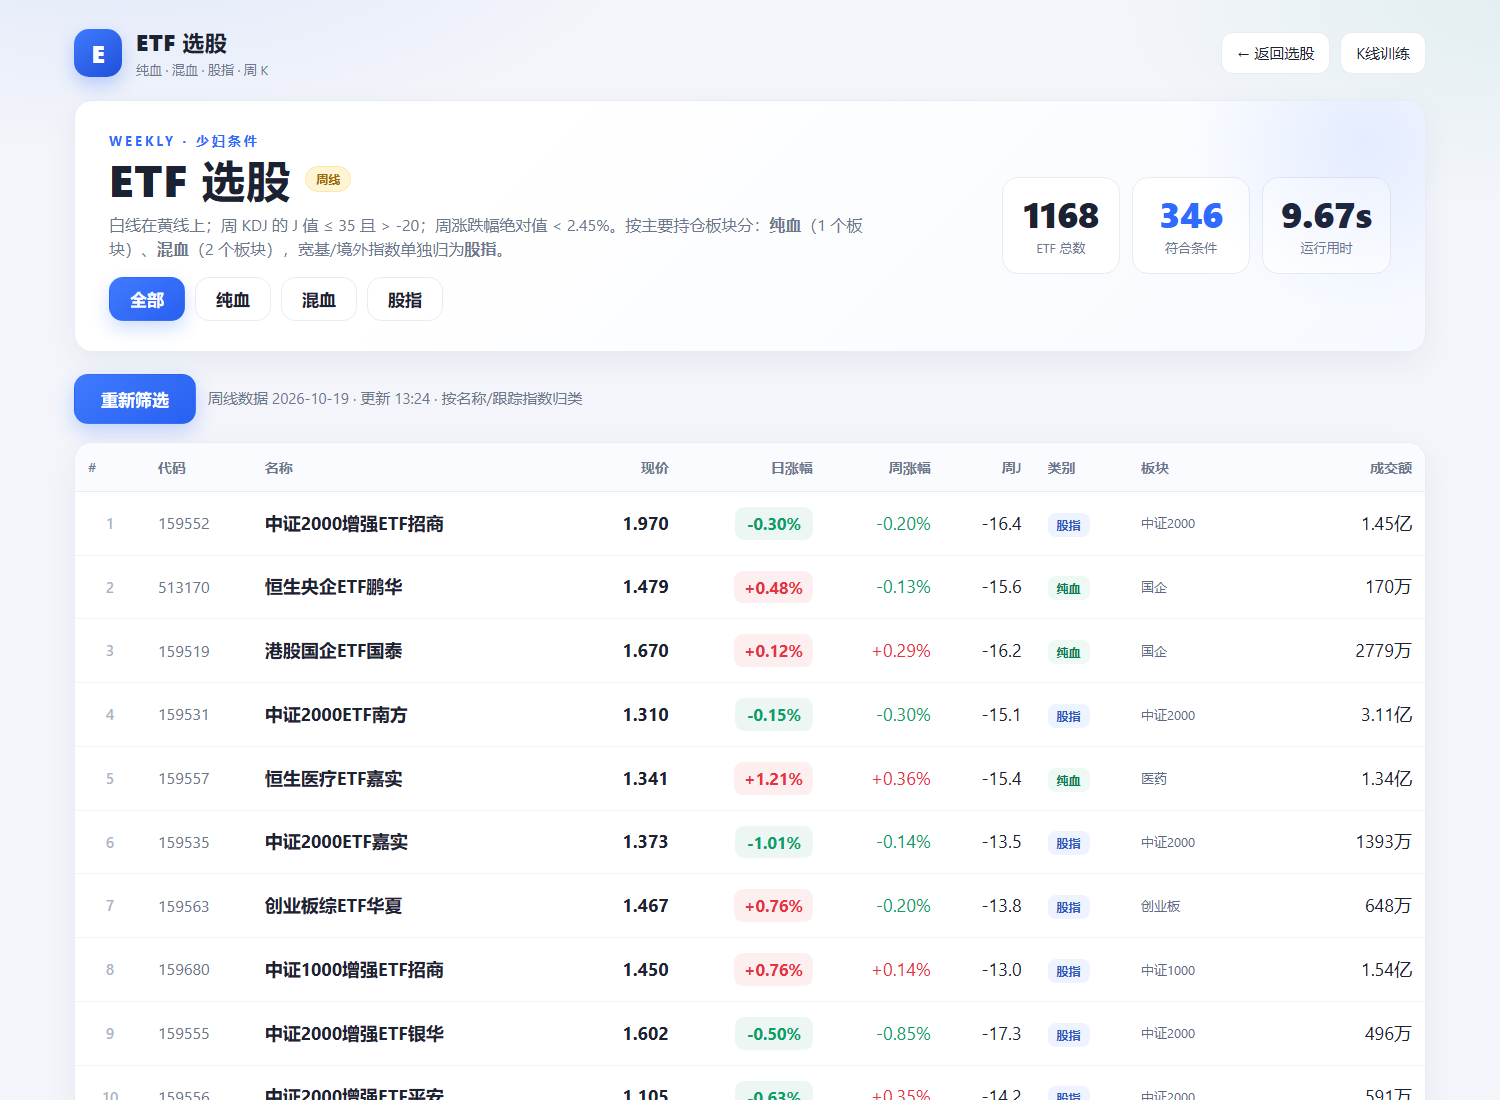
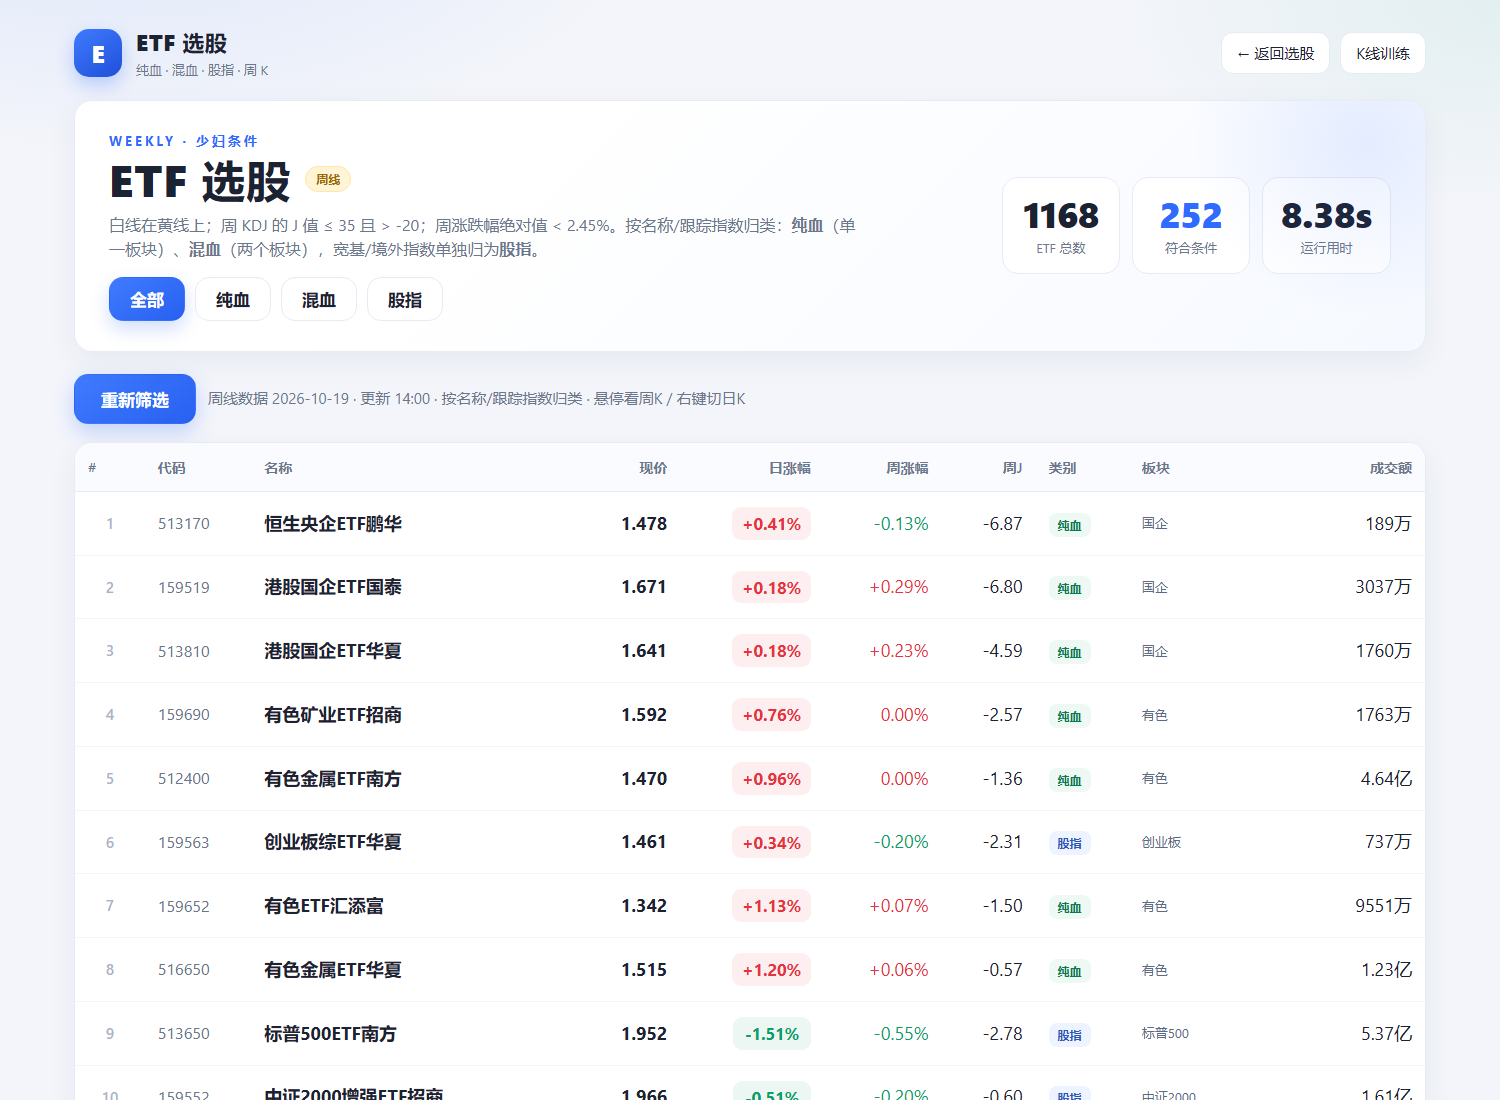
style: 指标数值统一保留两位小数

diff --git a/web/app.js b/web/app.js
@@ -1,4 +1,4 @@
-/* ===== 每日选股 前端逻辑 ===== */
+/* ===== 每日选股 前端逻辑 ===== */
 (function () {
   "use strict";
 
@@ -1488,7 +1488,7 @@
 
   function renderAmv(d) {
     $("amvCard").hidden = false;
-    $("amvValue").textContent = Number(d.value).toLocaleString("zh-CN", { maximumFractionDigits: 1 });
+    $("amvValue").textContent = Number(d.value).toLocaleString("zh-CN", { minimumFractionDigits: 2, maximumFractionDigits: 2 });
     const chg = $("amvChg");
     chg.textContent = (d.chg >= 0 ? "+" : "") + Number(d.chg).toFixed(2) + "%";
     chg.className = "amv-chg " + (d.chg >= 0 ? "up" : "down");
@@ -1518,7 +1518,7 @@
       ruleEl.textContent = tactic === "cut" ? "少妇战法：逐步减仓" : "少妇战法：适用期";
       ruleEl.className = "amv-rule-status " + tactic;
     }
-    const fmt = (v) => Number(v).toLocaleString("zh-CN", { maximumFractionDigits: 1 });
+    const fmt = (v) => Number(v).toLocaleString("zh-CN", { minimumFractionDigits: 2, maximumFractionDigits: 2 });
     const rangeFor = (start, end) => {
       const n = values.length;
       const s = Math.max(0, Math.floor((n * start) / 100));
@@ -1560,7 +1560,7 @@
         splitLine: { lineStyle: { color: "#f1f4f9" } },
         axisLabel: {
           fontSize: 10, color: "#9aa5b8",
-          formatter: (v) => (v >= 10000 ? (v / 10000).toFixed(1) + "万" : v),
+          formatter: (v) => (v >= 10000 ? (v / 10000).toFixed(2) + "万" : Number(v).toFixed(2)),
         },
       },
       dataZoom: [
@@ -1670,4 +1670,5 @@
 
   init();
 })();
+
 

diff --git a/web/etf.js b/web/etf.js
@@ -1,4 +1,4 @@
-/* ETF 选股页 */
+/* ETF 选股页 */
 (function () {
   const $ = (id) => document.getElementById(id);
   const CATS = [
@@ -67,7 +67,7 @@
         '<td class="num"><span class="pct ' + (up ? "up" : "down") + '">' +
         signed(it.pct, 2) + "%</span></td>" +
         '<td class="num ' + (wup ? "up" : "down") + '">' + signed(it.weekly_pct, 2) + "%</td>" +
-        '<td class="num">' + Number(it.j || 0).toFixed(1) + "</td>" +
+        '<td class="num">' + Number(it.j || 0).toFixed(2) + "</td>" +
         '<td><span class="etf-kind ' + it.kind + '">' + esc(it.kind_label) + "</span></td>" +
         '<td class="etf-sector">' + esc((it.sectors || []).join(" + ") || "-") + "</td>" +
         '<td class="num">' + fmtAmt(it.amount) + "</td>" +
@@ -221,3 +221,4 @@
   }
   scan(false);
 })();
+

diff --git a/core/etf.py b/core/etf.py
@@ -1,4 +1,4 @@
-# -*- coding: utf-8 -*-
+# -*- coding: utf-8 -*-
 """ETF 选股：周 K + 少妇战法条件；按名称/跟踪指数分纯血、混血、股指。
 
 说明：ETF 持仓与行业归属没有公开稳定的本地数据，这里按基金名称/跟踪指数
@@ -250,7 +250,7 @@ def _scan_all(min_weeks=120, pct_abs_max=2.45):
             continue
         if abs(weekly_pct) >= pct_abs_max:
             continue
-        tags = list(sectors) + ["J=%.1f" % f["kdj_j"]]
+        tags = list(sectors) + ["J=%.2f" % f["kdj_j"]]
         score = 30.0 - f["kdj_j"] * 0.5 + (pct_abs_max - abs(weekly_pct)) * 3.0
         items.append({
             "market": market,
@@ -259,7 +259,7 @@ def _scan_all(min_weeks=120, pct_abs_max=2.45):
             "price": q.get("price", 0),
             "pct": q.get("pct", 0),
             "weekly_pct": round(weekly_pct, 2),
-            "j": round(f["kdj_j"], 1),
+            "j": round(f["kdj_j"], 2),
             "amount": q.get("amount", 0),
             "kind": kind,
             "kind_label": {"pure": "纯血", "mixed": "混血", "index": "股指"}[kind],
@@ -306,3 +306,4 @@ def scan(category="all", min_weeks=120, pct_abs_max=2.45, force=False):
         "elapsed": _CACHE["elapsed"],
         "generated_at": _CACHE["generated_at"],
     }
+

diff --git a/core/strategies.py b/core/strategies.py
@@ -1,4 +1,4 @@
-# -*- coding: utf-8 -*-
+# -*- coding: utf-8 -*-
 """选股战法定义。
 
 三个战法对应三个选项：
@@ -130,7 +130,7 @@ class FourTypes(Strategy):
         if f["near_support"] > p["near_line"]:
             return False, 0.0, []
 
-        tags = [self._type(f), "J=%.1f" % f["kdj_j"], "地量"]
+        tags = [self._type(f), "J=%.2f" % f["kdj_j"], "地量"]
         score = (60.0 + (p["j_max"] - f["kdj_j"]) * 1.5
                  + (p["shrink_peak"] - f["vol_ratio_peak"]) * 30.0
                  + (p["near_line"] - f["near_support"]) * 2.0)
@@ -205,7 +205,7 @@ class Shaofu(Strategy):
         if abs(f["pct_1445"]) >= p["pct_abs_max"]:
             return False, 0.0, []
 
-        tags = ["白上黄", "J=%.1f" % f["kdj_j"], "14:45 平稳"]
+        tags = ["白上黄", "J=%.2f" % f["kdj_j"], "14:45 平稳"]
         score = 30.0 - f["kdj_j"] * 0.5 + max(0.0, p["pct_abs_max"] - abs(f["pct_1445"])) * 3.0
         return True, round(score, 2), tags
 
@@ -236,3 +236,4 @@ def get_strategy(key, overrides=None):
         except (TypeError, ValueError):
             continue
     return s
+

diff --git a/core/amv.py b/core/amv.py
@@ -1,4 +1,4 @@
-# -*- coding: utf-8 -*-
+# -*- coding: utf-8 -*-
 """0AMV 活跃市值（活筹指数）代理指标。
 
 指南针未公开原版算法；这里按公开流传的民间公式：
@@ -50,7 +50,7 @@ def compute(days=160):
             y = x
         else:
             y = (SMA_M * x + (SMA_N - SMA_M) * y) / SMA_N
-        series.append({"date": _fmt_date(d), "value": round(y, 1)})
+        series.append({"date": _fmt_date(d), "value": round(y, 2)})
 
     for i, item in enumerate(series):
         prev = series[i - 1]["value"] if i else item["value"]
@@ -63,7 +63,7 @@ def compute(days=160):
     ema = None
     for item in series:
         ema = item["value"] if ema is None else ema * 11.0 / 12.0 + item["value"] / 12.0
-        item["ema"] = round(ema, 1)
+        item["ema"] = round(ema, 2)
 
     last = series[-1]
     stale_days = 0
@@ -84,3 +84,4 @@ def compute(days=160):
         "stale_days": stale_days,
         "series": series[-days:],
     }
+

diff --git a/core/sell.py b/core/sell.py
@@ -1,4 +1,4 @@
-# -*- coding: utf-8 -*-
+# -*- coding: utf-8 -*-
 """主力出货评分（依据《主力出货的5种方式》）。
 
 所有判断只用「当天及以前」的数据，逐根 K 线滚动计算，
@@ -194,7 +194,7 @@ def evaluate(series):
         if p20 > 40:
             add("涨幅过大", "20 日涨幅 %.0f%%，位置偏高" % p20, 8)
     if j is not None and j > 100:
-        add("KDJ超买", "KDJ 的 J=%.0f，超买" % j, 5)
+        add("KDJ超买", "KDJ 的 J=%.2f，超买" % j, 5)
 
     # 放量滞涨 / 高位长上影
     if len(ohlc) >= 2:
@@ -229,3 +229,4 @@ def evaluate(series):
         "markers": markers,
         "signal_count": len(signals),
     }
+
